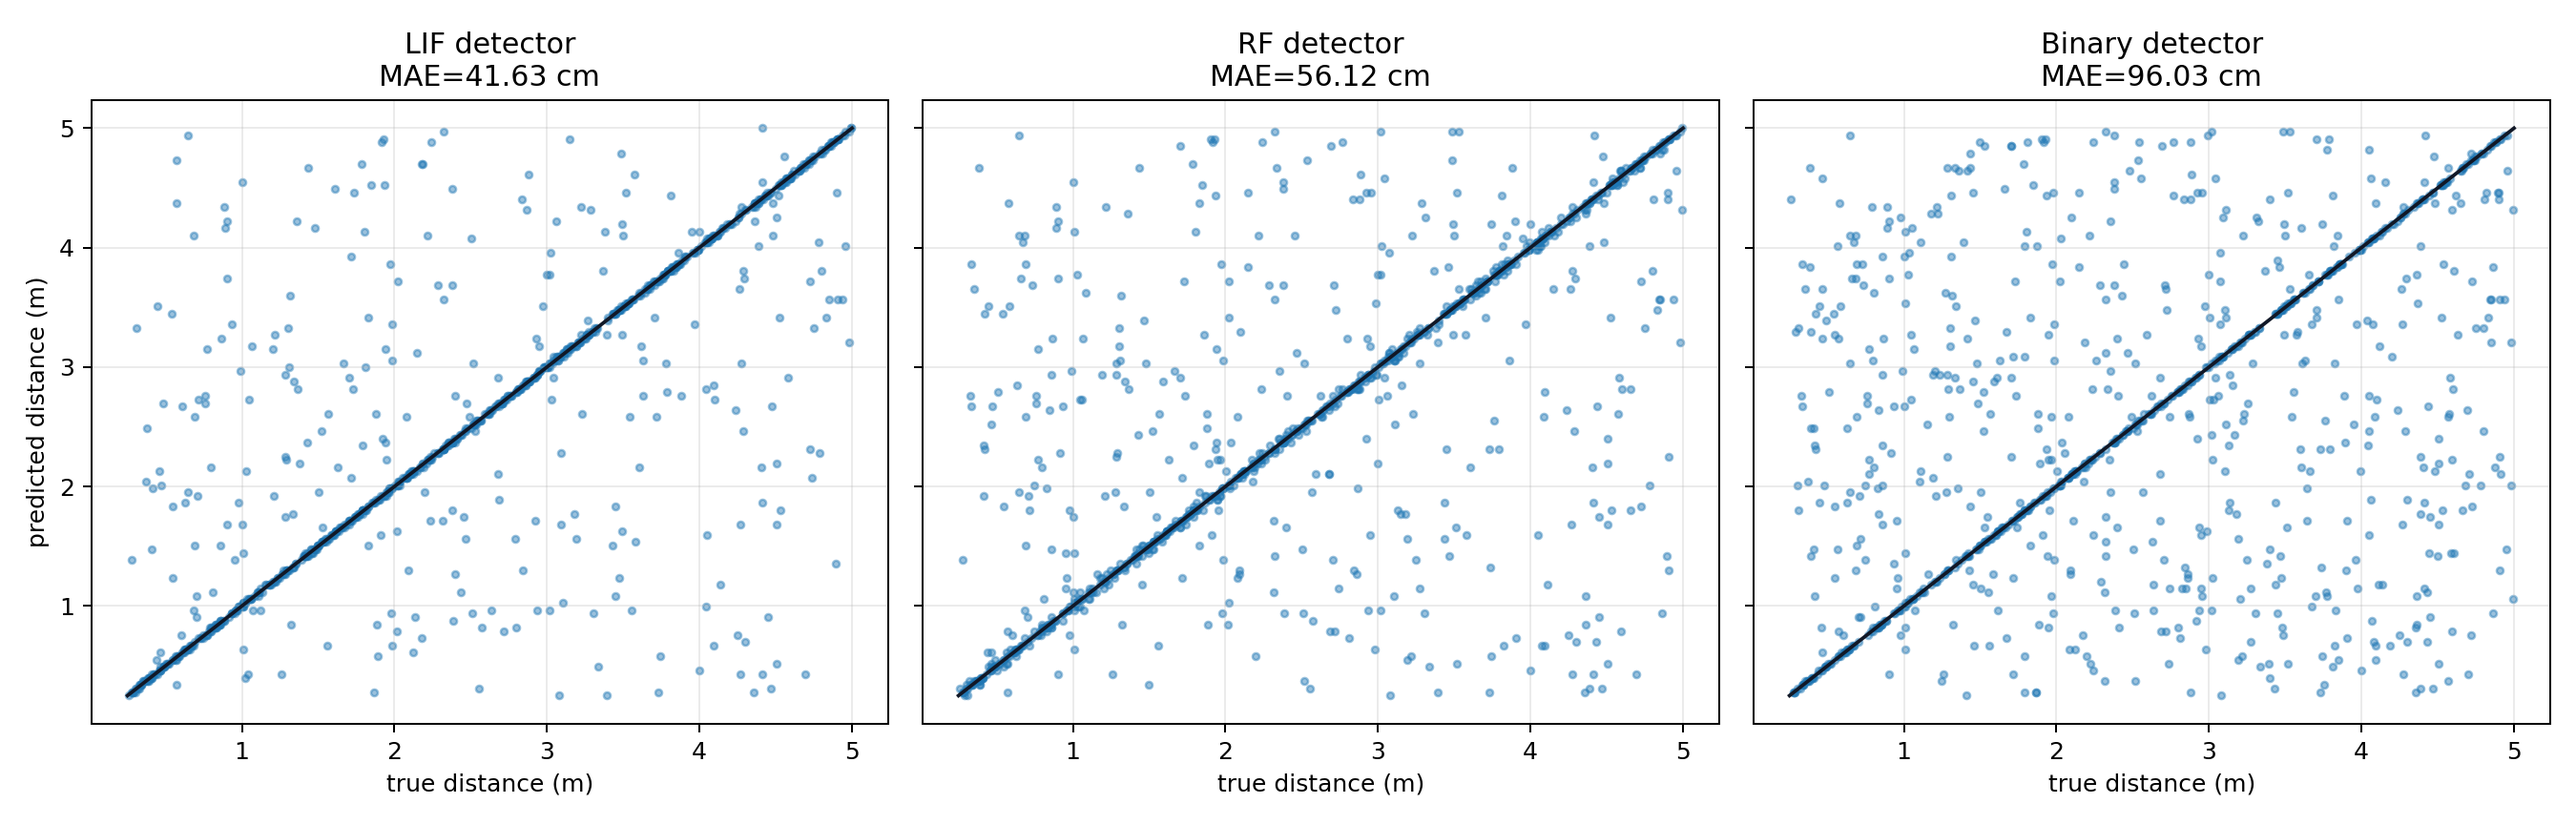
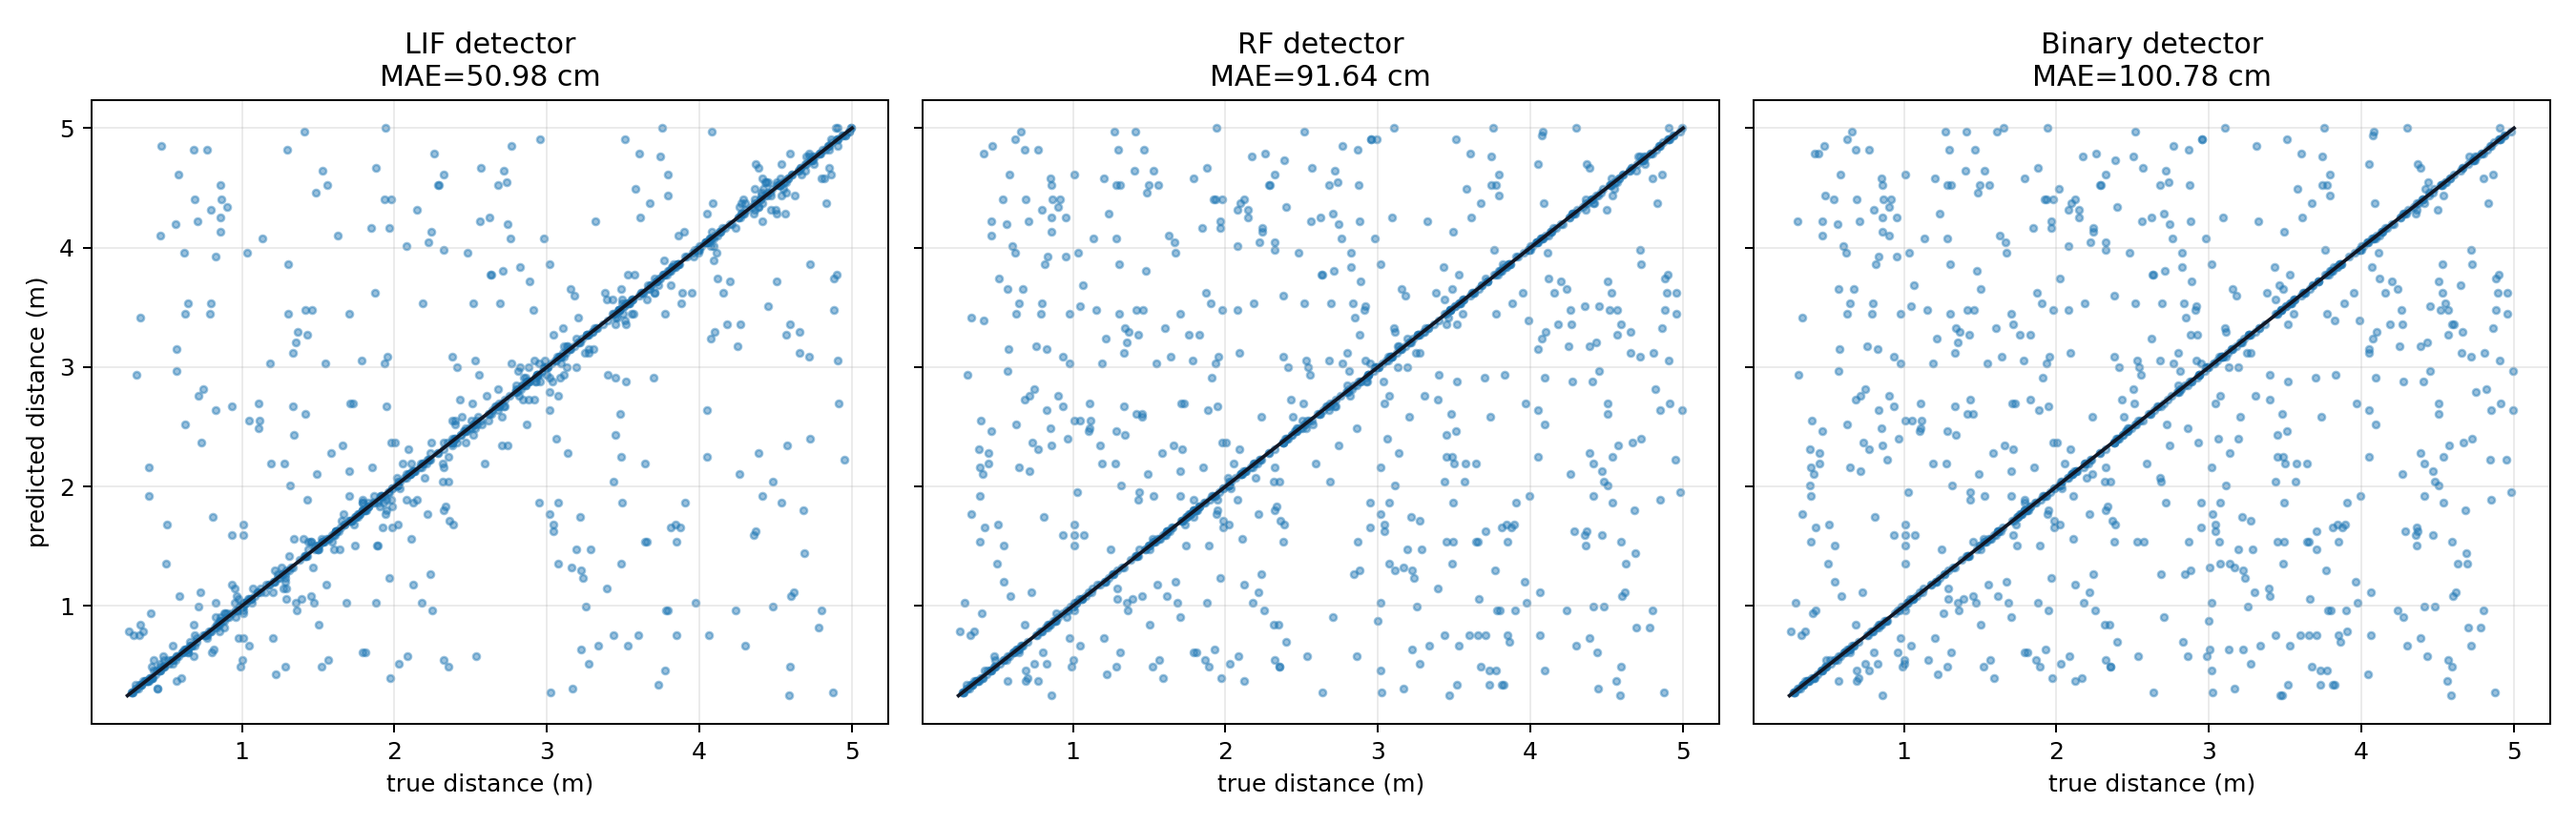
noise tests for distance coincidence

diff --git a/distance_pathway/experiments/distance_pathway_analysis.py b/distance_pathway/experiments/distance_pathway_analysis.py
@@ -42,6 +42,7 @@ NUM_DELAY_LINES = 160
 NUM_TEST_SAMPLES = 1_000
 JITTER_STD_S = 35e-6
 WHITE_NOISE_SNR_DB = 10.0
+ECHO_PULSE_SIGMA_SAMPLES = 2.0
 RNG_SEED = 11
 
 BASE_OUTPUT_DIR = ROOT / "distance_pathway" / "outputs"
@@ -159,7 +160,15 @@ def _make_dataset(condition: str, *, has_noise: bool, has_jitter: bool, seed_off
     num_time_steps = TX_INDEX + max(max_candidate, max_observed) + 80
     waveform = np.zeros((true_distance_m.size, num_time_steps), dtype=np.float64)
     echo_indices = TX_INDEX + echo_delay
-    waveform[np.arange(true_distance_m.size), echo_indices] = 1.0
+    pulse_radius = int(np.ceil(4.0 * ECHO_PULSE_SIGMA_SAMPLES))
+    pulse_offsets = np.arange(-pulse_radius, pulse_radius + 1)
+    pulse_shape = np.exp(-0.5 * (pulse_offsets / ECHO_PULSE_SIGMA_SAMPLES) ** 2)
+    for sample_index, echo_index in enumerate(echo_indices):
+        start = max(0, echo_index - pulse_radius)
+        stop = min(num_time_steps, echo_index + pulse_radius + 1)
+        shape_start = start - (echo_index - pulse_radius)
+        shape_stop = shape_start + (stop - start)
+        waveform[sample_index, start:stop] += pulse_shape[shape_start:shape_stop]
     if has_noise:
         noise_std = 10.0 ** (-WHITE_NOISE_SNR_DB / 20.0)
         waveform += rng.normal(0.0, noise_std, size=waveform.shape)
@@ -187,55 +196,63 @@ def _all_datasets() -> list[Dataset]:
     ]
 
 
-def _delay_error_tensor(dataset: Dataset) -> np.ndarray:
-    """Compute observed-pulse delay error against every candidate delay.
+def _candidate_waveform_amplitudes(dataset: Dataset) -> np.ndarray:
+    """Sample the noisy echo waveform at each candidate delay line.
 
     Args:
         dataset: Benchmark dataset.
 
     Returns:
-        Absolute delay mismatch tensor `[samples, pulses, delay_lines]`.
+        Candidate waveform amplitudes, shape `[samples, delay_lines]`.
     """
-    return np.abs(
-        dataset.observed_pulse_delay_samples[:, :, None] - dataset.candidate_delay_samples[None, None, :]
-    )
+    candidate_indices = TX_INDEX + dataset.candidate_delay_samples
+    return dataset.waveform[:, candidate_indices]
+
+
+def _delay_error_matrix(dataset: Dataset) -> np.ndarray:
+    """Compute true echo delay error against every candidate delay.
+
+    Args:
+        dataset: Benchmark dataset.
+
+    Returns:
+        Absolute delay mismatch matrix `[samples, delay_lines]`.
+    """
+    return np.abs(dataset.echo_delay_samples[:, None] - dataset.candidate_delay_samples[None, :])
 
 
 def _predict_lif(dataset: Dataset) -> np.ndarray:
     """Predict distance with a LIF soft-coincidence detector bank."""
-    delay_error = _delay_error_tensor(dataset)
-    amplitudes = dataset.observed_pulse_amplitudes[:, :, None]
+    delay_error = _delay_error_matrix(dataset)
+    amplitudes = np.maximum(_candidate_waveform_amplitudes(dataset), 0.0)
     beta = 0.982
     input_weight = 0.62
-    pulse_scores = amplitudes * input_weight * (1.0 + np.power(beta, delay_error))
-    scores = pulse_scores.max(axis=1)
+    scores = amplitudes * input_weight * (1.0 + np.power(beta, delay_error))
     return dataset.candidate_distance_m[np.argmax(scores, axis=1)]
 
 
 def _predict_rf(dataset: Dataset) -> np.ndarray:
     """Predict distance with an RF-style coincidence detector bank."""
-    delay_error = _delay_error_tensor(dataset)
-    amplitudes = dataset.observed_pulse_amplitudes[:, :, None]
+    delay_error = _delay_error_matrix(dataset)
+    amplitudes = np.maximum(_candidate_waveform_amplitudes(dataset), 0.0)
     input_weight = 0.62
     tau_samples = 18.0
     omega = 2.0 * np.pi / 18.0
     afterpotential = np.exp(-delay_error / tau_samples) * np.cos(omega * delay_error)
-    pulse_scores = amplitudes * input_weight * (1.0 + afterpotential)
-    scores = pulse_scores.max(axis=1)
+    scores = amplitudes * input_weight * (1.0 + afterpotential)
     return dataset.candidate_distance_m[np.argmax(scores, axis=1)]
 
 
 def _predict_binary(dataset: Dataset) -> np.ndarray:
     """Predict distance with a binary delay-line coincidence detector."""
-    delay_error = _delay_error_tensor(dataset)
-    amplitudes = dataset.observed_pulse_amplitudes[:, :, None]
+    delay_error = _delay_error_matrix(dataset)
+    amplitudes = _candidate_waveform_amplitudes(dataset)
     tolerance_samples = 2
-    pulse_scores = np.where(delay_error <= tolerance_samples, amplitudes, -np.inf)
-    scores = pulse_scores.max(axis=1)
+    amplitude_threshold = 0.5
+    scores = np.where((delay_error <= tolerance_samples) & (amplitudes >= amplitude_threshold), amplitudes, -np.inf)
     no_match = ~np.isfinite(scores).any(axis=1)
     if np.any(no_match):
-        nearest_error = delay_error[no_match].min(axis=1)
-        scores[no_match] = -nearest_error
+        scores[no_match] = amplitudes[no_match]
     return dataset.candidate_distance_m[np.argmax(scores, axis=1)]
 
 
@@ -245,11 +262,7 @@ def _score_detector(name: str, dataset: Dataset, predictor: Callable[[Dataset], 
     predicted = predictor(dataset)
     error = predicted - dataset.true_distance_m
     abs_error = np.abs(error)
-    operations = (
-        dataset.true_distance_m.size
-        * dataset.candidate_distance_m.size
-        * dataset.observed_pulse_delay_samples.shape[1]
-    )
+    operations = dataset.true_distance_m.size * dataset.candidate_distance_m.size
     if name.startswith("LIF"):
         flops = operations * 8.0
         sops = operations * 2.0
@@ -637,7 +650,7 @@ def _write_optimisation_report(
         "",
         "## Signal Conditions",
         "",
-        "| Condition | True echo jitter | Spurious onset noise |",
+            "| Condition | True echo jitter | Additive white noise |",
         "|---|---:|---:|",
     ]
     for dataset in datasets:
@@ -647,22 +660,23 @@ def _write_optimisation_report(
     lines.extend(
         [
             "",
-            "Noise here means extra spurious onset pulses in the echo window. Jitter means Gaussian timing jitter on the true echo pulse. This is still a simplified pulse model, not full waveform noise.",
+            f"Noise here means additive Gaussian white noise on the synthetic echo waveform, with an approximate SNR of `{WHITE_NOISE_SNR_DB:.1f} dB` relative to the unit echo pulse. The echo itself is a narrow Gaussian pulse with sigma `{ECHO_PULSE_SIGMA_SAMPLES:.1f}` samples, so nearby delay lines still see a graded amplitude. Jitter means Gaussian timing jitter on the true echo pulse.",
             "",
             "## Detector Equations",
             "",
-            "For all detectors, the mismatch between each observed pulse and candidate delay is:",
+            "For all detectors, the candidate delay lines sample the echo waveform at their expected echo-arrival time:",
             "",
             "```text",
-            "delta_p,k = abs(delay_observed[p] - delay_candidate[k])",
+            "a_k = max(0, waveform[call_time + delay_candidate[k]])",
+            "delta_k = abs(delay_echo - delay_candidate[k])",
             "```",
             "",
-            "The LIF and RF detectors score all observed pulses and use the strongest response. The binary detector checks whether any pulse lands inside a small timing window.",
+            "The LIF and RF detectors use the sampled amplitude as their input drive. The binary detector checks whether the candidate sample crosses a fixed amplitude threshold and is close enough in time.",
             "",
             "```text",
-            "LIF:    score_k = max_p amplitude_p * w * (1 + beta^delta_p,k)",
-            "RF:     score_k = max_p amplitude_p * w * (1 + exp(-delta_p,k/tau_rf) * cos(omega_rf * delta_p,k))",
-            "Binary: match_k = any_p(delta_p,k <= tolerance)",
+            "LIF:    score_k = a_k * w * (1 + beta^delta_k)",
+            "RF:     score_k = a_k * w * (1 + exp(-delta_k/tau_rf) * cos(omega_rf * delta_k))",
+            "Binary: match_k = 1 if waveform[call_time + delay_candidate[k]] >= threshold and delta_k <= tolerance",
             "```",
             "",
             "## Benchmark Setup",
@@ -675,8 +689,8 @@ def _write_optimisation_report(
             f"| test samples per condition | `{NUM_TEST_SAMPLES}` |",
             f"| delay lines | `{NUM_DELAY_LINES}` |",
             f"| jitter std | `{JITTER_STD_S * 1_000_000.0:.1f} us` |",
-            f"| noise pulses | `{NOISE_PULSES}` |",
-            f"| noise amplitude range | `{NOISE_MIN_AMPLITUDE} -> {NOISE_MAX_AMPLITUDE}` |",
+            f"| white noise SNR | `{WHITE_NOISE_SNR_DB:.1f} dB` |",
+            f"| echo pulse sigma | `{ECHO_PULSE_SIGMA_SAMPLES:.1f} samples` |",
             "",
             "## Accuracy Across Conditions",
             "",
@@ -713,7 +727,7 @@ def _write_optimisation_report(
             "",
             "- Clean perfect signals are essentially a delay quantisation problem, so LIF and binary should be close.",
             "- Jitter tests timing tolerance. LIF remains a useful soft detector because the membrane trace decays smoothly with timing mismatch.",
-            "- Noise tests false-onset robustness. Binary is cheap, but can be fooled if a strong false onset lands near another candidate delay.",
+            "- Noise tests robustness to additive waveform fluctuations. In this simplified setup, delay lines sample the noisy waveform at candidate arrival times.",
             "- RF remains biologically interesting, but its oscillatory side lobes are a weakness for this specific pure-delay task.",
             "- These results still assume onset pulses have already been extracted; the next hard problem is robust onset extraction from real cochlear spike rasters.",
             "",
@@ -784,9 +798,8 @@ def main() -> dict[str, object]:
             "num_delay_lines": NUM_DELAY_LINES,
             "num_test_samples": NUM_TEST_SAMPLES,
             "jitter_std_s": JITTER_STD_S,
-            "noise_pulses": NOISE_PULSES,
-            "noise_min_amplitude": NOISE_MIN_AMPLITUDE,
-            "noise_max_amplitude": NOISE_MAX_AMPLITUDE,
+            "white_noise_snr_db": WHITE_NOISE_SNR_DB,
+            "echo_pulse_sigma_samples": ECHO_PULSE_SIGMA_SAMPLES,
             "rng_seed": RNG_SEED,
         },
         "results_by_condition": {

diff --git a/distance_pathway/reports/accuracy_optimisation_testing.md b/distance_pathway/reports/accuracy_optimisation_testing.md
@@ -4,29 +4,30 @@ This report compares LIF, RF, and binary delay-line coincidence detectors under 
 
 ## Signal Conditions
 
-| Condition | True echo jitter | Spurious onset noise |
+| Condition | True echo jitter | Additive white noise |
 |---|---:|---:|
 | Clean perfect | `False` | `False` |
 | Added noise | `False` | `True` |
 | Added jitter | `True` | `False` |
 | Noise + jitter | `True` | `True` |
 
-Noise here means extra spurious onset pulses in the echo window. Jitter means Gaussian timing jitter on the true echo pulse. This is still a simplified pulse model, not full waveform noise.
+Noise here means additive Gaussian white noise on the synthetic echo waveform, with an approximate SNR of `10.0 dB` relative to the unit echo pulse. The echo itself is a narrow Gaussian pulse with sigma `2.0` samples, so nearby delay lines still see a graded amplitude. Jitter means Gaussian timing jitter on the true echo pulse.
 
 ## Detector Equations
 
-For all detectors, the mismatch between each observed pulse and candidate delay is:
+For all detectors, the candidate delay lines sample the echo waveform at their expected echo-arrival time:
 
 ```text
-delta_p,k = abs(delay_observed[p] - delay_candidate[k])
+a_k = max(0, waveform[call_time + delay_candidate[k]])
+delta_k = abs(delay_echo - delay_candidate[k])
 ```
 
-The LIF and RF detectors score all observed pulses and use the strongest response. The binary detector checks whether any pulse lands inside a small timing window.
+The LIF and RF detectors use the sampled amplitude as their input drive. The binary detector checks whether the candidate sample crosses a fixed amplitude threshold and is close enough in time.
 
 ```text
-LIF:    score_k = max_p amplitude_p * w * (1 + beta^delta_p,k)
-RF:     score_k = max_p amplitude_p * w * (1 + exp(-delta_p,k/tau_rf) * cos(omega_rf * delta_p,k))
-Binary: match_k = any_p(delta_p,k <= tolerance)
+LIF:    score_k = a_k * w * (1 + beta^delta_k)
+RF:     score_k = a_k * w * (1 + exp(-delta_k/tau_rf) * cos(omega_rf * delta_k))
+Binary: match_k = 1 if waveform[call_time + delay_candidate[k]] >= threshold and delta_k <= tolerance
 ```
 
 ## Benchmark Setup
@@ -39,8 +40,8 @@ Binary: match_k = any_p(delta_p,k <= tolerance)
 | test samples per condition | `1000` |
 | delay lines | `160` |
 | jitter std | `35.0 us` |
-| noise pulses | `3` |
-| noise amplitude range | `0.25 -> 1.1` |
+| white noise SNR | `10.0 dB` |
+| echo pulse sigma | `2.0 samples` |
 
 ## Accuracy Across Conditions
 
@@ -50,18 +51,18 @@ The detailed numeric results are:
 
 | Condition | Detector | MAE (cm) | RMSE (cm) | p95 abs error (cm) | max abs error (cm) | runtime (ms) | FLOPs | SOPs / bit ops |
 |---|---|---:|---:|---:|---:|---:|---:|---:|
-| Clean perfect | LIF detector | 0.77 | 0.89 | 1.44 | 1.60 | 1.076 | 1,280,000 | 320,000 |
-| Clean perfect | RF detector | 2.20 | 3.06 | 4.98 | 5.13 | 1.300 | 2,240,000 | 320,000 |
-| Clean perfect | Binary detector | 0.77 | 0.89 | 1.44 | 1.60 | 0.566 | 160,000 | 160,000 |
-| Added noise | LIF detector | 46.71 | 102.98 | 258.37 | 452.73 | 5.553 | 5,120,000 | 1,280,000 |
-| Added noise | RF detector | 59.60 | 115.94 | 279.53 | 452.73 | 8.145 | 8,960,000 | 1,280,000 |
-| Added noise | Binary detector | 91.73 | 146.00 | 335.34 | 464.92 | 2.392 | 640,000 | 640,000 |
-| Added jitter | LIF detector | 0.88 | 1.06 | 1.93 | 3.10 | 1.155 | 1,280,000 | 320,000 |
-| Added jitter | RF detector | 2.22 | 3.03 | 5.40 | 6.39 | 1.322 | 2,240,000 | 320,000 |
-| Added jitter | Binary detector | 0.88 | 1.06 | 1.93 | 3.10 | 0.672 | 160,000 | 160,000 |
-| Noise + jitter | LIF detector | 41.63 | 94.94 | 251.83 | 429.46 | 5.681 | 5,120,000 | 1,280,000 |
-| Noise + jitter | RF detector | 56.12 | 112.86 | 293.48 | 429.46 | 8.272 | 8,960,000 | 1,280,000 |
-| Noise + jitter | Binary detector | 96.03 | 150.21 | 327.56 | 429.46 | 2.254 | 640,000 | 640,000 |
+| Clean perfect | LIF detector | 0.77 | 0.89 | 1.44 | 1.60 | 1.906 | 1,280,000 | 320,000 |
+| Clean perfect | RF detector | 0.77 | 0.89 | 1.44 | 1.60 | 2.017 | 2,240,000 | 320,000 |
+| Clean perfect | Binary detector | 0.77 | 0.89 | 1.44 | 1.60 | 1.023 | 160,000 | 160,000 |
+| Added noise | LIF detector | 50.35 | 103.55 | 267.11 | 450.41 | 1.679 | 1,280,000 | 320,000 |
+| Added noise | RF detector | 96.90 | 149.54 | 330.10 | 450.41 | 2.041 | 2,240,000 | 320,000 |
+| Added noise | Binary detector | 103.44 | 155.65 | 339.15 | 464.02 | 0.936 | 160,000 | 160,000 |
+| Added jitter | LIF detector | 0.88 | 1.06 | 1.93 | 3.10 | 1.762 | 1,280,000 | 320,000 |
+| Added jitter | RF detector | 0.88 | 1.06 | 1.93 | 3.10 | 2.024 | 2,240,000 | 320,000 |
+| Added jitter | Binary detector | 0.88 | 1.06 | 1.93 | 3.10 | 0.984 | 160,000 | 160,000 |
+| Noise + jitter | LIF detector | 50.98 | 105.39 | 276.16 | 459.65 | 1.755 | 1,280,000 | 320,000 |
+| Noise + jitter | RF detector | 91.64 | 145.93 | 327.44 | 459.65 | 2.082 | 2,240,000 | 320,000 |
+| Noise + jitter | Binary detector | 100.78 | 153.51 | 336.27 | 459.65 | 1.055 | 160,000 | 160,000 |
 
 ## Hardest-Condition Plots
 
@@ -77,7 +78,7 @@ The scatter, histogram, and cost plots below use the hardest condition, `Noise +
 
 - Clean perfect signals are essentially a delay quantisation problem, so LIF and binary should be close.
 - Jitter tests timing tolerance. LIF remains a useful soft detector because the membrane trace decays smoothly with timing mismatch.
-- Noise tests false-onset robustness. Binary is cheap, but can be fooled if a strong false onset lands near another candidate delay.
+- Noise tests robustness to additive waveform fluctuations. In this simplified setup, delay lines sample the noisy waveform at candidate arrival times.
 - RF remains biologically interesting, but its oscillatory side lobes are a weakness for this specific pure-delay task.
 - These results still assume onset pulses have already been extracted; the next hard problem is robust onset extraction from real cochlear spike rasters.
 
@@ -89,4 +90,4 @@ The scatter, histogram, and cost plots below use the hardest condition, `Noise +
 - `cost_comparison`: `distance_pathway/outputs/accuracy_optimisation/figures/cost_comparison.png`
 - `results`: `distance_pathway/outputs/distance_pathway_results.json`
 
-Runtime: `6.03 s`.
+Runtime: `5.35 s`.

diff --git a/distance_pathway/reports/simple_coincidence_model.md b/distance_pathway/reports/simple_coincidence_model.md
@@ -71,4 +71,4 @@ The detector can be implemented as a LIF neuron: one input arrives from the dela
 - `detector_time_examples`: `distance_pathway/outputs/simple_coincidence_model/figures/detector_time_examples.png`
 - `delay_bank_response`: `distance_pathway/outputs/simple_coincidence_model/figures/delay_bank_response.png`
 
-Runtime for full script: `6.03 s`.
+Runtime for full script: `5.35 s`.
